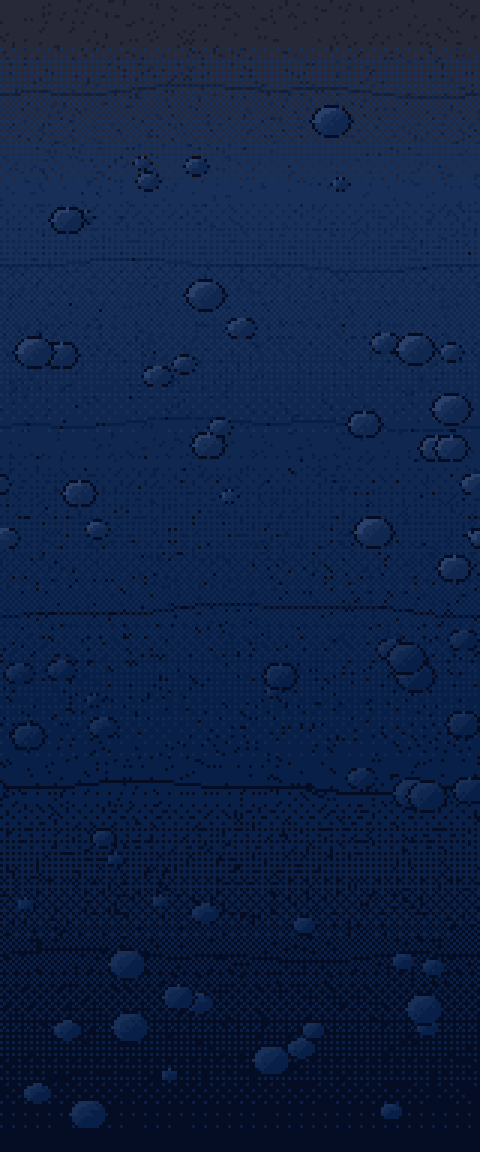
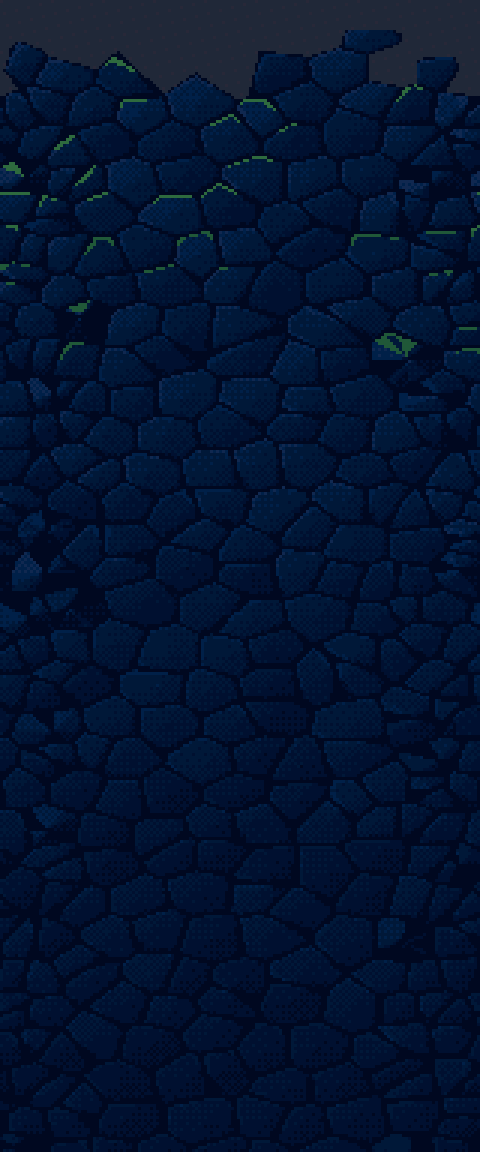
The land under the water is built of blocks, like the terraces
Kent: "the islands below the ocean ... The platforms in islands are not that visible and weird
to look at."

Under the water the land was a slab with spots on it. The fill was a smooth dither from earth to
rock with round boulders scattered through it and ruled strata across it, and from the seabed it
read as a dark wall with polka dots. The face was worse: five thin lit ledges stuck out of it
with weed hanging off them, which at game scale are five small platforms floating beside the
land, attached to nothing -- and not solid, so a diver swims straight through them.

Both are now drawn the way the painted terraces the diver swims past are built: blocks in
irregular courses (Voronoi cells on a jittered, brick-offset grid), a near-black crevice
between every two, lit along the upper-left rim, moss on the tops nearest the light, darker the
deeper they sit. The colours are sampled off the terraces' cliff rather than chosen. The earth
under the sand gives way to rock along block edges, not along a row, so there is no ruled band
where one becomes the other.

The face keeps its ragged line and its sand lip. What stands out of it now is its own bulges,
lit and mossed on top where they face up -- rock that is the wall -- and it feathers into the
fill over its landward six columns so the two textures never meet on a straight seam. The fill
already runs far enough under the face for that on both shores.

diff --git a/tools/build_dagat_props.py b/tools/build_dagat_props.py
@@ -56,168 +56,204 @@ FRAMES = 3
 # a thousand more. Under the beach there was nothing painted at all -- the deep's ruins showed
 # through beneath the sand, and the collision under it was an air pocket a swimmer could get
 # into and not out of. The land now goes down to the seabed, and this is what it looks like
-# on the way: the sand plate's own earth band at the top, darkening into the deep's rock, with
-# a ragged face where it meets the water and a few ledges lit the way the painted terraces are.
+# on the way: the sand plate's own earth band at the top, turning into the deep's rock, with a
+# ragged face where it meets the water.
 #
-# Colours are read off the delivered plates, not chosen: EARTH is the sand plate's bottom rows,
-# ROCK the terraces' body, LEDGE the terraces' lit tops.
-EARTH = ramp(["#1c1e2c", "#272939", "#33354a"])
-ROCK = ramp(["#040d23", "#082048", "#102850", "#183058", "#28406a"])
-LEDGE = ramp(["#1f6f78", "#3fa6a0", "#8fd8c0", "#c8f0c8"])
-MOSS = ramp(["#244a36", "#3a6e44"])
+# ⚠ BLOCKS, NOT A GRADIENT WITH SPOTS ON IT. The first version was a smooth dither from earth
+# to rock with round boulders scattered through it and ruled strata across it, and under the
+# water it read as a dark wall with polka dots -- a slab, not a place. The painted terraces the
+# diver swims past are built of rock BLOCKS: irregular courses, a near-black crevice between
+# every two, each block lit along its upper-left rim and falling into shadow on its lower-right,
+# moss on the tops nearest the light. So is this now, cell by cell, in their colours.
+#
+# ⚠ AND NOTHING STICKS OUT OF THE FACE THAT IS NOT PART OF IT. The face had five thin lit
+# ledges jutting out of it with weed hanging off them, which at game scale read as five small
+# platforms floating beside the land -- the "parts that are not connected". What the face has
+# now is its own bulges, lit and mossed on top where they face the light: rock that is the wall.
+#
+# Colours are read off the delivered plates, not chosen: EARTH is the sand plate's last rows,
+# ROCK the terraces' cliff (crevice, faces, and the lit rims of its blocks), MOSS the green on
+# its ledges.
+EARTH = ramp(["#181c2c", "#202838", "#282838"])
+ROCK = ramp(["#000820", "#001030", "#001838", "#002048", "#102850", "#203858"])
+MOSS = ramp(["#183c34", "#205838", "#2e6a3e"])
 SHELF_W, SHELF_H = 160, 384
 FACE_W = 46
 # ⚠ THE LIP: the 151 rows of the SAND PLATE the face used to start below. The face was pinned
 # at the plate's last row, so it dressed the land's seaward edge only from there down -- and
 # the sand above it, from the surface the apo walks on to that row, was still cut off with a
-# ruled vertical line. Under water and dark, but a ruled line, and the first thing anybody
-# noticed about the end of the beach. These rows carry the sand plate's own colours down to
-# its earth band, so the face now begins where the sand does and the whole edge is ragged.
+# ruled vertical line. These rows carry the sand plate's own colours down to its earth band,
+# so the face begins where the sand does and the whole edge is ragged.
 LIP_H = 51
 ## How far behind its own edge the lip is opaque. See draw_shelf_face.
 LIP_DEPTH = 15
 # Read off the sand plate: its lit surface, the shaded body under it, wet sand, and the earth
-# band that the shelf's own first stop already matches.
+# band that the shelf's own first rows already match.
 SAND = ramp(["#6f5141", "#be9564", "#e6b775", "#f0c888", "#f7dba6"])
 LIP_STOPS = [(0, SAND[3]), (14, SAND[3]), (24, SAND[2]), (34, SAND[1]),
              (40, SAND[0]), (50, EARTH[1])]
-# (row, colour) stops down the column. The first matches the sand plate's last row exactly,
-# which is the only place the two pictures touch.
-SHELF_STOPS = [(0, EARTH[1]), (12, EARTH[1]), (64, ROCK[3]), (150, ROCK[2]),
-               (260, ROCK[1]), (383, ROCK[0])]
-# Where the face juts out into a ledge, and how far: (top row, rows thick, logical px out).
-LEDGES = [(66, 8, 16), (148, 6, 12), (229, 9, 18), (305, 7, 14), (354, 6, 11)]
-
-
-def _shelf_row(c: Canvas, y: int, x0: int, w: int) -> None:
-    for (ya, lo), (yb, hi) in zip(SHELF_STOPS, SHELF_STOPS[1:]):
-        if ya <= y <= yb:
-            amount = 0.0 if yb == ya else (y - ya) / float(yb - ya)
-            c.dither(x0, y, w, 1, lo, hi, amount)
-            return
-
-
-def _step(colour: np.ndarray, by: int) -> np.ndarray:
-    """The same material a step lighter (by > 0) or darker, on whichever ramp it lives on."""
-    for ramp_ in (ROCK, EARTH):
-        for index, value in enumerate(ramp_):
-            if (value[:3] == colour[:3]).all():
-                return ramp_[max(0, min(len(ramp_) - 1, index + by))]
-    return colour
-
-
-def _boulder(c: Canvas, cx: int, cy: int, r: int, wrap: int = 0) -> None:
-    """A rounded stone the way the painted terraces draw them: a dark outline, a body lit
-    from the upper left, a rim of the next step up on the lit side. Darker the deeper it is,
-    because the water is."""
-    import math
-    depth = min(1.0, cy / float(SHELF_H))
-    body_hi = ROCK[3] if depth < 0.55 else ROCK[2]
-    body_lo = ROCK[2] if depth < 0.55 else ROCK[1]
-    rim = ROCK[4] if depth < 0.55 else ROCK[3]
-    ry = max(2.0, r * 0.78)
-    for dy in range(-int(ry) - 1, int(ry) + 2):
-        for dx in range(-r - 1, r + 2):
-            d = math.hypot(dx / float(r), dy / ry)
-            if d > 1.0:
-                continue
-            x = cx + dx
-            if wrap:
-                x %= wrap
-            y = cy + dy
-            if d > 0.86:
-                c.px(x, y, ROCK[0])
-                continue
-            light = (-dx / float(r) - dy / ry) * 0.5 + 0.5
-            if light > 0.78 and d > 0.55:
-                c.px(x, y, rim)
-            elif (light + BAYER_AT(x, y) * 0.3) > 0.62:
-                c.px(x, y, body_hi)
-            else:
-                c.px(x, y, body_lo)
+## Rows of packed earth at the top before any rock shows, then rows over which the rock takes
+## over. The earth's first row is the sand plate's last, which is the only place they touch.
+EARTH_ROWS, EARTH_BLEND = 10, 26
+## The size of a block, in logical pixels: wider than tall, so they lie in courses.
+BLOCK = (19, 12)
+## Where the face's edge sits, from its left, and the columns at its landward side that
+## dither away into the fill behind it (so there is no seam where the two textures meet).
+FACE_BASE, FACE_FEATHER = FACE_W - 20, 6
 
 
 def BAYER_AT(x: int, y: int) -> float:
     return float(pixelart.BAYER[y % 4, x % 4])
 
 
-def _shelf_body(c: Canvas, width: int, seed: int, wrap: bool) -> None:
-    """Gradient, strata, boulders and grit. With `wrap`, all of it is periodic across the
-    width so the tile meets itself at the seam."""
-    import math
-    for y in range(SHELF_H):
-        _shelf_row(c, y, 0, width)
+def _blocks(width: int, height: int, seed: int, wrap: bool):
+    """Voronoi blocks on a jittered, brick-offset grid. Returns, per pixel: which block it is
+    in, how far it is from the nearest edge of that block (0 on the crevice), and which way it
+    lies from the block's middle (for the lit rim and the shadow side)."""
     rng = np.random.default_rng(seed)
-    # Strata: gently wavy lines a step darker, on whole periods of the tile.
-    for row in (30, 88, 141, 203, 262, 318, 360):
-        phase = float(rng.uniform(0, math.tau))
+    bw, bh = BLOCK
+    seeds = []
+    for r in range(-1, height // bh + 2):
+        shift = (r % 2) * bw * 0.5
+        for q in range(-1, width // bw + 2):
+            x = q * bw + shift + rng.uniform(-0.38, 0.38) * bw
+            y = r * bh + rng.uniform(-0.32, 0.32) * bh
+            seeds.append((x % width if wrap else x, y))
+    seeds = np.array(seeds, dtype=np.float64)
+    ids = np.arange(len(seeds))
+    if wrap:
+        # Every seed a period to either side, so a block cut by the tile's edge carries on
+        # into the next tile as the same block.
+        seeds = np.concatenate([seeds, seeds + [width, 0.0], seeds - [width, 0.0]])
+        ids = np.concatenate([ids, ids, ids])
+    cell = np.zeros((height, width), dtype=np.int64)
+    gap = np.zeros((height, width), dtype=np.float64)
+    toward = np.zeros((height, width, 2), dtype=np.float64)
+    xs = np.arange(width, dtype=np.float64) + 0.5
+    for y in range(height):
+        # Stretched on x, so blocks come out wider than they are tall.
+        dx = (xs[:, None] - seeds[None, :, 0]) * 0.72
+        dy = (y + 0.5 - seeds[None, :, 1])
+        d = np.sqrt(dx * dx + dy * dy)
+        order = np.argsort(d, axis=1)[:, :2]
+        near = order[:, 0]
+        d1 = d[np.arange(width), near]
+        d2 = d[np.arange(width), order[:, 1]]
+        cell[y] = ids[near]
+        gap[y] = d2 - d1
+        toward[y, :, 0] = dx[np.arange(width), near]
+        toward[y, :, 1] = dy[0, near]
+    return cell, gap, toward, seeds[: len(seeds) // 3 if wrap else len(seeds), 1]
+
+
+def _paint_rock(c: Canvas, top: int, width: int, height: int, seed: int, wrap: bool) -> None:
+    """Earth, then blocks of rock, darker the deeper they sit -- because the water is."""
+    cell, gap, toward, seed_y = _blocks(width, height, seed, wrap)
+    rng = np.random.default_rng(seed + 1)
+    tone_of = rng.uniform(0.0, 1.0, size=int(cell.max()) + 1)
+    mossy = rng.uniform(0.0, 1.0, size=int(cell.max()) + 1) < 0.34
+    # ⚠ THE EARTH ENDS ALONG THE BLOCKS, NOT ALONG A ROW. A dithered row-by-row change from
+    # earth to rock is a ruled band across the whole land; a block is earth or rock as a whole,
+    # so where one gives way to the other the line runs along crevices, the way rock shows
+    # through soil.
+    earth_until = rng.uniform(EARTH_ROWS, EARTH_ROWS + EARTH_BLEND, size=int(cell.max()) + 1)
+    for y in range(height):
+        depth = y / float(height)
         for x in range(width):
-            wave = 1.6 * math.sin(math.tau * x / width + phase) \
-                + 0.8 * math.sin(math.tau * 3 * x / width + phase * 2)
-            y = row + int(round(wave))
-            c.px(x, y, _step(c.buf[y, x].copy(), -1))
-    # Grit, sparse and dark, so a flat area is not flat.
-    for _ in range(width * SHELF_H // 16):
-        x = int(rng.integers(0, width))
-        y = int(rng.integers(0, SHELF_H))
-        c.px(x, y, _step(c.buf[y, x].copy(), -1))
-    # Boulders set into the face of it, fewer near the top where it is still packed earth.
-    for _ in range(width * SHELF_H // 900):
-        r = int(rng.integers(3, 8))
-        cy = int(rng.integers(40, SHELF_H - r - 2))
-        cx = int(rng.integers(0, width))
-        _boulder(c, cx, cy, r, width if wrap else 0)
+            b = BAYER_AT(x, y + top)
+            k = cell[y, x]
+            if y < EARTH_ROWS or seed_y[k] < earth_until[k]:
+                c.px(x, y + top, EARTH[2] if (x * 5 + y * 3) % 17 == 0 else EARTH[1])
+                continue
+            g = gap[y, x]
+            vx, vy = toward[y, x]
+            length = max(0.001, float(np.hypot(vx, vy)))
+            lit = (-vx - vy) / length  # +1 toward the upper left, where the light is
+            if g < 1.05:
+                c.px(x, y + top, ROCK[0])
+                continue
+            # A body tone per block, a little lighter toward its lit side, darker with depth.
+            tone = 1.45 + 1.1 * tone_of[k] + 0.35 * lit
+            tone *= 1.0 - 0.55 * depth
+            if g < 2.4 and lit > 0.35:
+                # The rim that catches the light -- moss on it near the surface.
+                if mossy[k] and depth < 0.34 and vy < 0 and abs(vx) < -vy * 1.6:
+                    c.px(x, y + top, MOSS[2] if depth < 0.2 else MOSS[1])
+                    continue
+                tone += 1.2 if depth < 0.5 else 0.8
+            elif g < 2.2 and lit < -0.35:
+                tone -= 0.9
+            tone = max(0.0, min(4.0, tone))
+            low = int(tone)
+            frac = tone - low
+            c.px(x, y + top, ROCK[min(5, low + 1)] if frac > b else ROCK[low])
 
 
 def draw_shelf_fill() -> Canvas:
     pixelart.PX = 3
     c = Canvas(SHELF_W, SHELF_H, seed=2203)
-    _shelf_body(c, SHELF_W, 2203, True)
+    _paint_rock(c, 0, SHELF_W, SHELF_H, 2203, True)
     return c
+
+
+def _face_edge() -> list[int]:
+    """Where the face's edge is, row by row: the lip's slope into the water, then the rock's
+    own irregular line, with a few bulges -- rounded, so each reads as the wall bulging and
+    not as a shelf stuck to it."""
+    import math
+    bulges = [(62, 30, 5), (171, 38, 6), (262, 26, 4), (338, 34, 5)]
+    edge = []
+    for y in range(LIP_H + SHELF_H):
+        e = FACE_BASE + 2.4 * math.sin(y / 15.0 + 0.4) + 1.5 * math.sin(y / 6.1 + 1.0) \
+            + 0.8 * math.sin(y / 2.7)
+        if y < LIP_H:
+            # Sand runs further out than rock does and draws back as it wets: the lip is a
+            # slope into the water, not a wall, so nothing here reads as a second cliff.
+            e += (1.0 - y / float(LIP_H)) * 11.0
+        else:
+            for top, span, out in bulges:
+                t = (y - LIP_H - top) / float(span)
+                if 0.0 <= t <= 1.0:
+                    e += out * math.sin(math.pi * t) ** 0.8
+        edge.append(min(FACE_W - 1, int(round(e))))
+    return edge
 
 
 def draw_shelf_face() -> Canvas:
     """The seaward edge, facing right. Mirrored in the scene for the island, which faces left.
 
-    A ragged edge with a few ledges jutting out of it, each lit on its top the way the
-    painted terraces are -- teal going to near-white -- with weed hanging off the lip and the
-    underside cut back, so it reads as a shelf a thing could rest on rather than a notch.
-
     ⚠ IT BEGINS AT THE SAND, NOT UNDER IT. The top LIP_H rows are the sand plate's own band,
     so the land's edge is ragged from the surface the apo stands on all the way down, instead
     of a ruled cut through the sand with a ragged rock starting under it."""
-    import math
     pixelart.PX = 3
     c = Canvas(FACE_W, LIP_H + SHELF_H, seed=2207)
-    body = Canvas(FACE_W, SHELF_H, seed=2207)
-    _shelf_body(body, FACE_W, 2207, False)
-    c.buf[LIP_H:] = body.buf
+    _paint_rock(c, LIP_H, FACE_W, SHELF_H, 2207, False)
     for y in range(LIP_H):
         for (ya, lo), (yb, hi) in zip(LIP_STOPS, LIP_STOPS[1:]):
             if ya <= y <= yb:
                 amount = 0.0 if yb == ya else (y - ya) / float(yb - ya)
                 c.dither(0, y, FACE_W, 1, lo, hi, amount)
                 break
-    base = FACE_W - 20
-    edge = []
+    edge = _face_edge()
     for y in range(LIP_H + SHELF_H):
-        e = base + int(round(2.6 * math.sin(y / 13.0) + 1.6 * math.sin(y / 5.7 + 1.0)
-                             + 1.0 * math.sin(y / 2.3)))
+        e = edge[y]
+        c.buf[y, e + 1:] = 0
         if y < LIP_H:
-            # Sand runs further out than rock does and draws back as it wets: the lip is a
-            # slope into the water, not a wall, so nothing here reads as a second cliff.
-            e += int(round((1.0 - y / float(LIP_H)) * 11.0))
-        for top, thick, out in LEDGES:
-            if top + LIP_H <= y < top + LIP_H + thick:
-                # Full reach for the top rows, cut back underneath.
-                cut = max(0, (y - top - LIP_H) - 2) * out // max(1, thick)
-                e = max(e, base + out - cut - 1)
-        edge.append(min(FACE_W - 1, e))
-    for y in range(LIP_H + SHELF_H):
-        c.buf[y, edge[y] + 1:] = 0
-        # A right-hand face is on the shadow side: its edge carries the step down.
-        c.px(edge[y], y, ROCK[0] if y >= LIP_H else SAND[0])
-        c.px(edge[y] - 1, y, _step(c.buf[y, edge[y] - 1].copy(), -1))
+            c.px(e, y, SAND[0])
+            c.px(e - 1, y, SAND[1] if (e + y) % 2 else SAND[0])
+            continue
+        # A right-hand face is on the shadow side: its edge is the crevice colour, and the
+        # pixel inside it a step down.
+        c.px(e, y, ROCK[0])
+        c.px(e - 1, y, ROCK[1])
+        # Where this row reaches further out than the one above it, the rock faces UP -- the
+        # top of a bulge -- and takes the light, and near the surface, the moss.
+        above = edge[y - 1] if y > LIP_H else e
+        for x in range(above + 1, e + 1):
+            depth = (y - LIP_H) / float(SHELF_H)
+            c.px(x, y, MOSS[2] if depth < 0.3 else ROCK[5])
+            if y + 1 < LIP_H + SHELF_H and x < edge[y + 1]:
+                c.px(x, y + 1, MOSS[1] if depth < 0.3 else ROCK[4])
     # ⚠ THE LIP IS AN EDGE, NOT A SLAB. Opaque for LIP_DEPTH columns behind the edge and
     # dithered away inland of that: drawn to the full width it was a second, flatter sand
     # laid over the plate's, and the join where the two met was a straighter line than the
@@ -232,40 +268,18 @@ def draw_shelf_face() -> Canvas:
         for x in range(max(0, edge[y] - 5), edge[y]):
             if (x + y) % 3 == 0:
                 c.px(x, y, SAND[1])
-    for cy, cx in ((11, base - 8), (26, base - 2), (39, base - 13), (45, base - 5)):
+    for cy, cx in ((11, FACE_BASE - 8), (26, FACE_BASE - 2), (39, FACE_BASE - 13),
+                   (45, FACE_BASE - 5)):
         c.px(cx, cy, SAND[0])
         c.px(cx + 1, cy, SAND[1])
         c.px(cx, cy + 1, SAND[0])
-    # The slab of each ledge, a step lighter than the wall behind it so it reads as rock
-    # standing out of the face rather than a line drawn on it, outlined underneath.
-    for top_row, thick, out in LEDGES:
-        top = top_row + LIP_H
-        for y in range(top, top + thick):
-            for x in range(base - 4, edge[y] + 1):
-                slab = ROCK[3] if (x + y) % 4 else ROCK[2]
-                if y >= top + thick - 2 or x == edge[y]:
-                    slab = ROCK[1]
-                c.px(x, y, slab)
-            c.px(edge[y], y, ROCK[0])
-        for x in range(base - 2, edge[top + thick - 1] + 1):
-            c.px(x, top + thick, ROCK[0])
-    for top_row, thick, out in LEDGES:
-        top = top_row + LIP_H
-        lip = edge[top]
-        x0 = base - 6
-        for x in range(x0, lip + 1):
-            c.px(x, top, LEDGE[3] if x > x0 + 4 else LEDGE[2])
-            c.px(x, top + 1, LEDGE[1] if x > x0 + 2 else LEDGE[0])
-        # A boulder sitting on the ledge, half the time.
-        if (top_row // 7) % 2 == 0:
-            _boulder(c, lip - 5, top - 3, 3)
-            for x in range(lip - 8, lip - 1):
-                c.px(x, top, LEDGE[2])
-        # Weed hanging off the lip.
-        for x in range(base + 1, lip, 3):
-            length = 2 + (x * 7 + top_row) % 4
-            for dy in range(length):
-                c.px(x, top + thick + 1 + dy, MOSS[1] if dy < length - 1 else MOSS[0])
+    # ⚠ AND THE ROCK FEATHERS INTO THE FILL BEHIND IT. Two textures meeting on a column read
+    # as a seam however alike they are; dithered across a few columns, the blocks of one run
+    # into the blocks of the other. The fill is laid far enough out to sit under all of this.
+    for y in range(LIP_H, LIP_H + SHELF_H):
+        for x in range(FACE_FEATHER):
+            if BAYER_AT(x, y) >= (x + 0.5) / float(FACE_FEATHER):
+                c.buf[y, x] = 0
     return c
 
 
